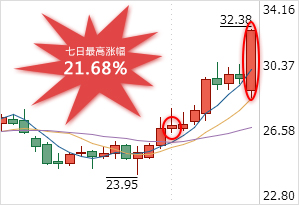
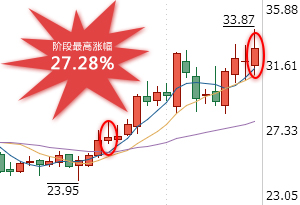
add wuweiwei3

diff --git a/app/static/js/teacher_stock.js b/app/static/js/teacher_stock.js
@@ -22,12 +22,12 @@ let maxin = [
     {
         name: '四维图新',
         code: '002405',
-        result: '21.68%',
+        result: '27.28%',
         daySend: '2017.11.02',
-        day: '7',
-        dayCount: '七日最高涨幅',
+        day:'阶段',
+        dayCount: '阶段最高涨幅',
         img: maxin2
-    },
+    }/*,
     {
         name: '南卫股份',
         code: '603880',
@@ -36,7 +36,7 @@ let maxin = [
         day: '2',
         dayCount: '二日最高涨幅',
         img: maxin1
-    }
+    }*/
 ]
 let suxuepeng = [{
     name: '陕西黑猫',
@@ -58,7 +58,7 @@ let wuweiwei = [
         day:'2',
         dayCount: '两日最高涨幅',
         img:wuweiwei3
-    },
+    }/*,
     {
         name: '嘉诚国际',
         code: '603535',
@@ -76,7 +76,7 @@ let wuweiwei = [
         day: '阶段',
         dayCount: '阶段最高涨幅',
         img: wuweiwei1
-    }
+    }*/
 ]
 
 let yuliang = [{
@@ -179,5 +179,18 @@ export function ranks(name) {
             return 3
         default:
             return 4
+    }
+}
+
+export function recordNum(name){
+    switch (name) {
+        case '吴伟伟':
+            return 1
+        case '马鑫':
+            return 0
+        case '周煜':
+            return 0
+        default:
+            return 0
     }
 }

diff --git a/app/components/ProductListHot.js b/app/components/ProductListHot.js
@@ -12,7 +12,7 @@ class Product extends React.Component {
     }
 
     render() {
-        let {id, name, special, records,half_body_img,stocks} = this.props.data
+        let {id, name, special, records,half_body_img,stocks,recordNum} = this.props.data
         let stock = stocks[0]||{result:'',name:''}
         return (
             <li>
@@ -30,9 +30,9 @@ class Product extends React.Component {
                             <span className="key">推出日期</span><span>：</span><span className="value">{stock.daySend}</span>
                         </p>
                         <p className="result_one">
-                            <span className="key">{records[0].title}</span><span>：</span>
-                            <span className="progress"><b className="water" style={{width:records[0].water}}/></span>
-                            <span className="value">{records[0].result}</span>
+                            <span className="key">{records[recordNum].title}</span><span>：</span>
+                            <span className="progress"><b className="water" style={{width:records[recordNum].water}}/></span>
+                            <span className="value">{records[recordNum].result}</span>
                         </p>
                     </div>
                 </Link>

diff --git a/app/static/js/teacher_data_format.js b/app/static/js/teacher_data_format.js
@@ -1,5 +1,5 @@
 import chart_format from './chart_format'
-import {stocks,ranks} from './teacher_stock'
+import {stocks,ranks,recordNum} from './teacher_stock'
 import teacher_position from './teacher_position'
 
 export default function(products){
@@ -20,6 +20,7 @@ export default function(products){
         product.records = records;
         product.stocks = stocks(product.name)
         product.rank = ranks(product.name)
+        product.recordNum = recordNum(product.name)
         product.lables = teacher_position(product.position)//取标签后面的3个
     })
 }
